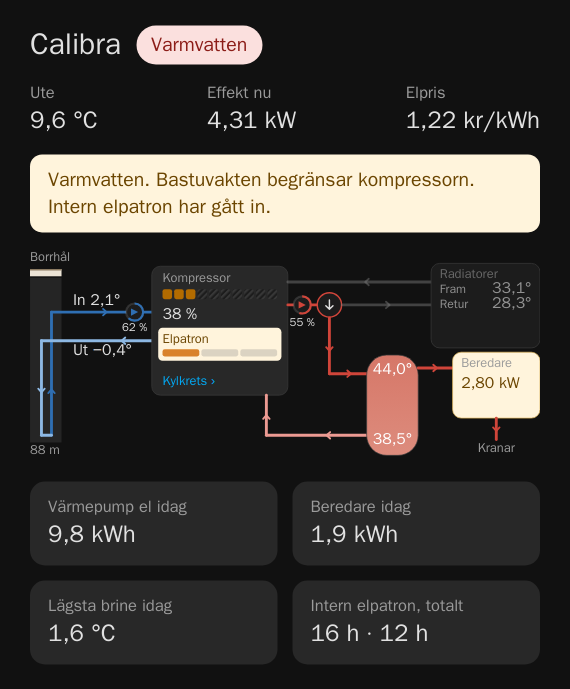
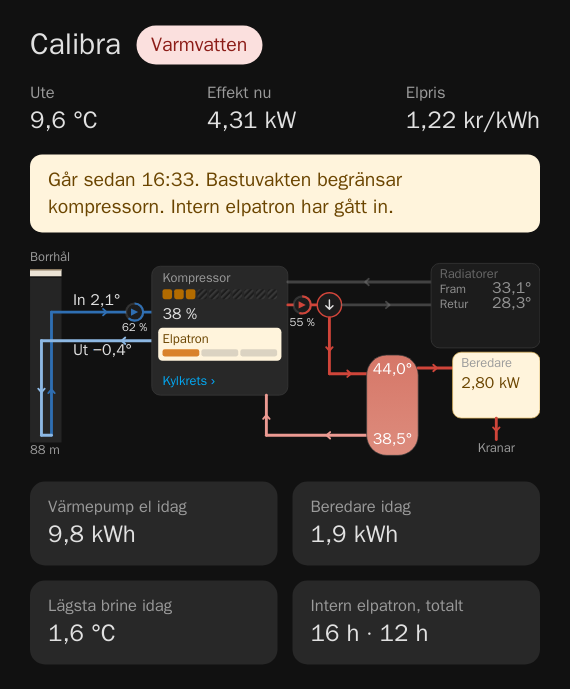
0.4.3: the explanation line says since when the compressor runs or stands still instead of repeating the chip

Changed region(s): [[0.0895, 0.2438, 0.8351, 0.3353]]

diff --git a/dist/calibra-card.js b/dist/calibra-card.js
@@ -9,7 +9,7 @@
  * MIT License
  */
 
-const CARD_VERSION = "0.4.2";
+const CARD_VERSION = "0.4.3";
 
 // Entity defaults: the thermiagenesis entity ids. Anything else (power meter, price, the
 // valve, the water heater) is site specific and only shown when configured.
@@ -69,8 +69,8 @@ const T = {
     compHours: "Kompressor, drifttid", tapHours: "Varmvatten, drifttid", gearsHeat: "Tillåtna växlar, värme",
     gearsTap: "Tillåtna växlar, varmvatten", blocked: "Omstartsspärr", minLeft: (m) => `${m} min kvar`, yes: "Ja", no: "Nej",
     alarm: "Samlingslarm", noAlarm: "Inget", active: "Aktivt", phaseAlarm: "Fasdetektering", ok: "OK", fault: "Fel",
-    whyDemand: (d, lim) => `${d}${lim ? "" : " · ingen begränsning"}`,
-    whyIdle: "Inget behov just nu", stopLimit: "Värmestopp, gräns", seasonIntegral: "Värmesäsongsintegral",
+    whyRunning: (since) => `Går${since}`, whyIdle: (since) => `Står still${since}`, since: (w) => ` sedan ${w}`,
+    yesterday: "igår", stopLimit: "Värmestopp, gräns", seasonIntegral: "Värmesäsongsintegral",
     whyHeatStop: (o, s) => `Värmestopp: ute ${o} är över gränsen ${s}. Radiatorerna får ingen värme, bara varmvatten laddas vid behov.`,
     whyBlocked: (m) => `Omstartsspärr efter stopp · ${m} min kvar.`, whyImmersion: "Intern elpatron har gått in.",
     whyAlarm: "Värmepumpen har ett aktivt larm.",
@@ -90,8 +90,8 @@ const T = {
     compHours: "Compressor hours", tapHours: "Hot water hours", gearsHeat: "Allowed gears, heating",
     gearsTap: "Allowed gears, hot water", blocked: "Restart delay", minLeft: (m) => `${m} min left`, yes: "Yes", no: "No",
     alarm: "Sum alarm", noAlarm: "None", active: "Active", phaseAlarm: "Phase detection", ok: "OK", fault: "Fault",
-    whyDemand: (d, lim) => `${d}${lim ? "" : " · no limit"}`,
-    whyIdle: "No demand right now", stopLimit: "Heating stop, limit", seasonIntegral: "Heating season integral",
+    whyRunning: (since) => `Running${since}`, whyIdle: (since) => `Stopped${since}`, since: (w) => ` since ${w}`,
+    yesterday: "yesterday", stopLimit: "Heating stop, limit", seasonIntegral: "Heating season integral",
     whyHeatStop: (o, s) => `Heating stop: outdoor ${o} is above the limit ${s}. Only hot water is made when needed.`,
     whyBlocked: (m) => `Restart delay after a stop · ${m} min left.`, whyImmersion: "The immersion heater is on.",
     whyAlarm: "The heat pump has an active alarm.",
@@ -123,6 +123,19 @@ function fmt(v, digits = 1, unit = "", lang = "sv") {
   if (v === null || v === undefined || !Number.isFinite(v)) return "–";
   const s = v.toLocaleString(lang === "sv" ? "sv-SE" : "en-GB", { minimumFractionDigits: digits, maximumFractionDigits: digits });
   return unit ? `${s}${unit === "°" ? "" : " "}${unit}` : s;
+}
+
+// "17:23" today, "igår 17:23" yesterday, else "21 okt 17:23" (local time).
+function sinceWhen(iso, lang, t, now = new Date()) {
+  const d = new Date(iso);
+  if (Number.isNaN(d.getTime())) return "";
+  const loc = lang === "sv" ? "sv-SE" : "en-GB";
+  const hm = d.toLocaleTimeString(loc, { hour: "2-digit", minute: "2-digit" });
+  const day = (x) => new Date(x.getFullYear(), x.getMonth(), x.getDate()).getTime();
+  const diff = Math.round((day(now) - day(d)) / 864e5);
+  if (diff <= 0) return hm;
+  if (diff === 1) return `${t.yesterday} ${hm}`;
+  return `${d.toLocaleDateString(loc, { day: "numeric", month: "short" }).replace(".", "")} ${hm}`;
 }
 
 function fmtPower(w, lang) {
@@ -242,8 +255,13 @@ class CalibraCard extends HTMLElement {
     let why, tone = "neutral";
     if (alarm) { why = t.whyAlarm; tone = "alert"; }
     else if (heatStop && !running) { why = t.whyHeatStop(fmt(outdoor, 1, "°C", lang), fmt(stopT, 0, "°C", lang)); tone = "stop"; }
-    else if (running) why = t.whyDemand(demand, limited || notices.length);
-    else why = t.whyIdle;   // the season integral is not the compressor's degree minutes, so it isn't shown here
+    // The chip already says what the pump wants; the line says how long it has run or stood still,
+    // and (below) what holds it back.
+    else {
+      const at = e.compressor_running && str(hass, e.compressor_running) !== null ? hass.states[e.compressor_running].last_changed : null;
+      const since = at ? t.since(sinceWhen(at, lang, t)) : "";
+      why = running ? t.whyRunning(since) : t.whyIdle(since);
+    }
     const extra = [...notices];
     if (blocked) extra.push(t.whyBlocked(blockedMin));
     if (immersion) extra.push(t.whyImmersion);
@@ -840,5 +858,5 @@ if (!customElements.get("calibra-card")) {
 }
 
 if (typeof module !== "undefined" && module.exports) {
-  module.exports = { CalibraCard, CalibraSignatureCard, DEFAULT_ENTITIES, tankColor, fmt, aggregateDays, fitQuad };   // for the tests
+  module.exports = { CalibraCard, CalibraSignatureCard, DEFAULT_ENTITIES, tankColor, fmt, sinceWhen, aggregateDays, fitQuad };   // for the tests
 }

diff --git a/test/card.test.js b/test/card.test.js
@@ -46,7 +46,8 @@ function states(over = {}) {
     ...over,
   };
   const out = {};
-  for (const [k, v] of Object.entries(base)) out[k] = { state: v, attributes: k === "sensor.price" ? { unit_of_measurement: "kr/kWh" } : {} };
+  const changed = new Date(Date.now() - 50 * 60e3).toISOString();   // everything last changed 50 min ago
+  for (const [k, v] of Object.entries(base)) out[k] = { state: v, last_changed: changed, attributes: k === "sensor.price" ? { unit_of_measurement: "kr/kWh" } : {} };
   return out;
 }
 
@@ -68,9 +69,8 @@ test("heating: radiator branch live, valve points right, demand translated", () 
   assert.equal(m.hwOn, false);
   assert.equal(m.chip.text, "Värme");
   assert.match(m.compText, /^38 % · 2.940 rpm$/);
-  assert.equal(m.why, "Värme · ingen begränsning");
+  assert.match(m.why, /^Går sedan (igår )?\d\d:\d\d$/, "the chip says Värme; the line says since when");
   assert.ok(!html(c).includes("Växel"));
-  assert.match(m.why, /ingen begränsning/);
   assert.match(html(c), /rotate\(0\)/);
   assert.match(html(c), /1,42 kW/);
 });
@@ -119,7 +119,7 @@ test("idle shows degree minutes; pipes are grey", () => {
   });
   const m = c._model();
   assert.equal(m.compText, "Står still");
-  assert.equal(m.why, "Inget behov just nu", "the season integral is not shown as degree minutes");
+  assert.match(m.why, /^Står still sedan (igår )?\d\d:\d\d$/, "no degree minutes, no repeat of the chip");
   assert.match(m.integral, /^Värmesäsongsintegral [−-]150$/);
   const rows = c._detailModel().at(-1).rows.filter(Boolean).map(([label, value]) => `${label}: ${value}`);
   assert.ok(rows.includes("Värmesäsongsintegral: −150") || rows.includes("Värmesäsongsintegral: -150"), rows.join(" | "));
@@ -177,7 +177,7 @@ test("clicking a value opens more-info for its entity", () => {
 
 test("English labels", () => {
   const m = card({}, {}, "en")._model();
-  assert.equal(m.why, "Heat · no limit");
+  assert.match(m.why, /^Running since (yesterday )?\d\d:\d\d$/);
 });
 
 test("only relevant state changes re-render", () => {
@@ -230,4 +230,12 @@ test("brine and condenser pumps are drawn as symbols filled to their speed", () 
   assert.ok(!h.includes(">Brinepump<"));
   const idle = html(card({ "sensor.diplomat_inverter_duo_brine_circulation_pump_speed": "0" }));
   assert.equal(count(idle, 'class="spin"'), 1);
+});
+
+test("since: today as a time, then yesterday, then a date", () => {
+  const { sinceWhen } = require("../dist/calibra-card.js");
+  const t = { yesterday: "igår" }, now = new Date(2026, 9, 25, 17, 40);
+  assert.equal(sinceWhen(new Date(2026, 9, 25, 17, 23).toISOString(), "sv", t, now), "17:23");
+  assert.equal(sinceWhen(new Date(2026, 9, 24, 22, 5).toISOString(), "sv", t, now), "igår 22:05");
+  assert.equal(sinceWhen(new Date(2026, 9, 21, 9, 0).toISOString(), "sv", t, now), "21 okt 09:00");
 });

diff --git a/test/preview.html b/test/preview.html
@@ -54,7 +54,8 @@
   };
   const st = { ...base, ...(modes[q.get("mode") || "heat"]) };
   const states = {};
-  for (const [k, v] of Object.entries(st)) states[k] = { state: v, attributes: k === "sensor.price" ? { unit_of_measurement: "kr/kWh" } : {} };
+  const changed = new Date(new Date().setHours(16, 33, 0, 0)).toISOString();   // "sedan 16:33" in the shots
+  for (const [k, v] of Object.entries(st)) states[k] = { state: v, last_changed: changed, attributes: k === "sensor.price" ? { unit_of_measurement: "kr/kWh" } : {} };
   const c = document.createElement("calibra-card");
   c.setConfig({
     borehole_depth: 88,

diff --git a/README.md b/README.md
@@ -13,7 +13,7 @@ It draws the system as it is actually plumbed:
 - **TWC tank:** top and bottom temperature, coloured by temperature.
 - **Optional separate water heater** in series after the tank, with its own thermostat, plus the taps.
 
-Flow arrows show the circulation direction, and idle circuits turn grey. A line under the title explains **why** the pump is doing what it does. It reports a limited gear, a heating stop, the restart delay after the compressor stops (minutes left), the immersion heater coming on, an alarm, or your own notices (for example a sauna load guard).
+Flow arrows show the circulation direction, and idle circuits turn grey. The chip next to the title says what the pump wants (heating, hot water, no demand, heating stop). The line under it never repeats that: it says how long the compressor has been running or stopped ("Går sedan 16:33", "Står still sedan igår 22:05") and what holds it back. It reports a limited gear, a heating stop, the restart delay after the compressor stops (minutes left), the immersion heater coming on, an alarm, or your own notices (for example a sauna load guard).
 
 Tap the compressor for the refrigerant circuit: pressures, dew and bubble point, operating hours, allowed gears, the restart delay, the heating stop limit and the heating season integral, and alarms. Every value opens its entity's more-info dialog.
 

diff --git a/CHANGELOG.md b/CHANGELOG.md
@@ -1,5 +1,9 @@
 # Changelog
 
+## 0.4.3 — 2026-10-25
+
+- The explanation line no longer repeats the chip ("Inget behov" / "Inget behov just nu", "Värme" / "Värme · ingen begränsning"). It now says since when the compressor has been running or stopped, from the compressor signal's last change: "Går sedan 16:33", "Står still sedan igår 22:05", "… sedan 21 okt 09:00". Limits, notices, the restart delay, heating stop and alarms follow as before.
+
 ## 0.4.2 — 2026-10-25
 
 - "Inget behov just nu" no longer adds "· gradminuter …". That value is the heating season integral (it decides heating stop against the limit, and sat at its floor for days), not the degree minutes that start the compressor; the register map has none of those.
